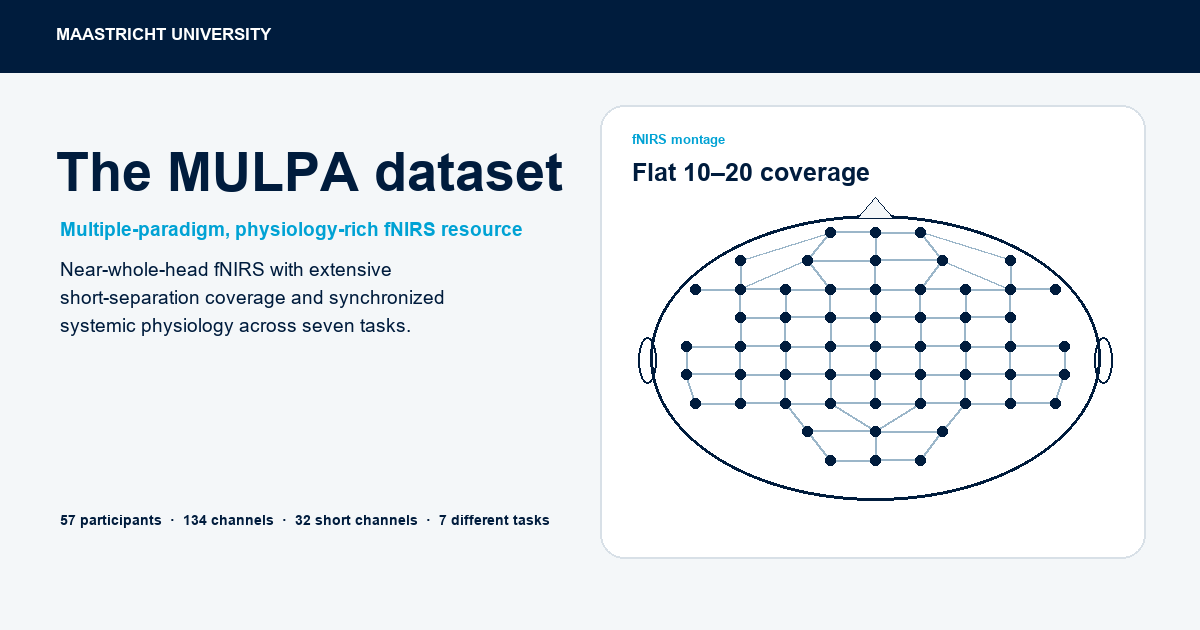
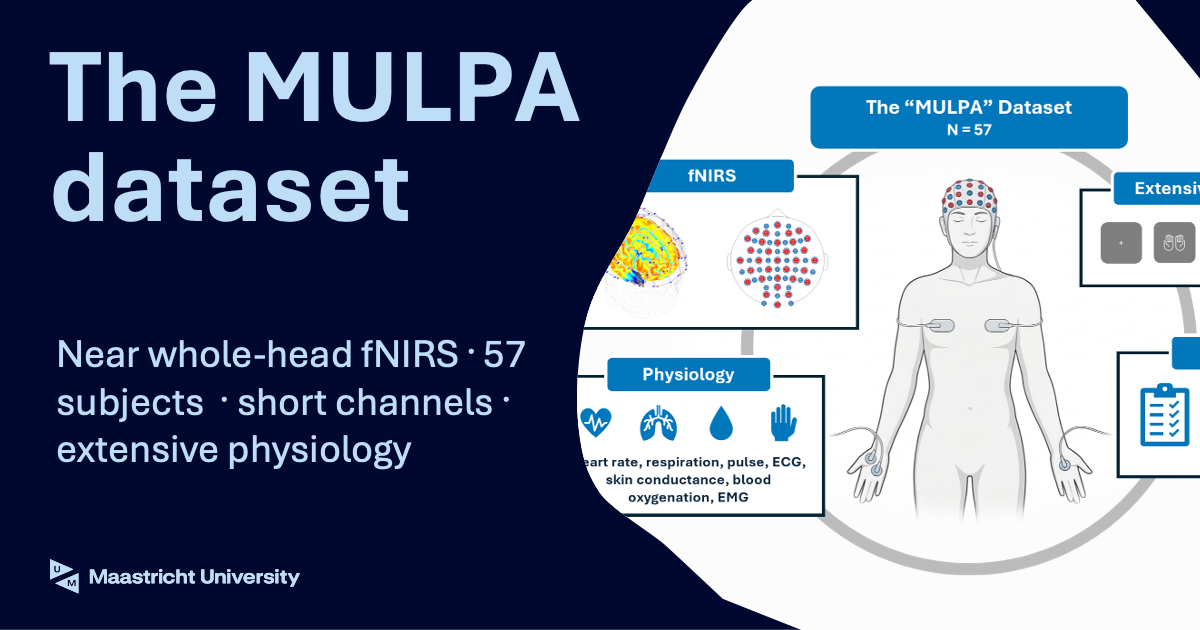
update social preview

diff --git a/app/page.tsx b/app/page.tsx
@@ -446,11 +446,12 @@ export default function Home() {
         <a className="button button-small" href="https://zenodo.org/records/21033499" target="_blank" rel="noreferrer">Open dataset</a>
       </header>
       <section className="hero" id="top">
-        <div><p className="eyebrow">A multiple-paradigm physiology-rich fNIRS resource</p><h1>The MULPA dataset</h1><p className="author-list">{authorNames.map((name, index) => <span key={name}>{name}{index < 2 && <sup>*</sup>}{index < authorNames.length - 2 ? ', ' : index === authorNames.length - 2 ? ', and ' : ''}</span>)}</p><div className="author-notes"><span><sup>*</sup> Shared first authors</span><a href="mailto:sp.raible@maastrichtuniversity.nl">Correspondence: sp.raible@maastrichtuniversity.nl</a></div><p className="hero-copy">MULPA is an open resource from 57 participants that combines near-whole-head fNIRS—134 measurement channels including 32 short-separation channels—with a broad, seven-task battery. The release brings cortical signals together with synchronized cardiovascular, respiratory, electrodermal, muscular, behavioural, and self-report measures on shared timelines: a rich foundation for studying brain responses, systemic physiology, signal quality, and their interactions.</p><div className="hero-actions"><a className="button" href="#montage">Explore the montage</a><a className="text-link" href="https://www.biorxiv.org/content/10.64898/2026.06.06.728412v1" target="_blank" rel="noreferrer">Read the preprint <span aria-hidden="true">↗</span></a></div></div>
+        <div><p className="eyebrow">A multiple-paradigm physiology-rich fNIRS resource</p><h1>The MULPA dataset</h1><p className="author-list">{authorNames.map((name, index) => <span key={name}>{name}{index < 2 && <sup>*</sup>}{index < authorNames.length - 2 ? ', ' : index === authorNames.length - 2 ? ', and ' : ''}</span>)}</p><div className="author-notes"><span><sup>*</sup> Shared first authors</span><a href="mailto:sp.raible@maastrichtuniversity.nl">Correspondence: sp.raible@maastrichtuniversity.nl</a></div><p className="hero-copy">MULPA is an open resource from 57 participants that combines near-whole-head fNIRS, 134 measurement channels including 32 short-separation channels, with a broad, seven-task battery. The release brings cortical signals together with synchronized cardiovascular, respiratory, electrodermal, muscular, behavioural, and self-report measures on shared timelines: a rich foundation for studying brain responses, systemic physiology, signal quality, and their interactions.</p><div className="hero-actions"><a className="button" href="#montage">Explore the montage</a><a className="text-link" href="https://www.biorxiv.org/content/10.64898/2026.06.06.728412v1" target="_blank" rel="noreferrer">Read the preprint <span aria-hidden="true">↗</span></a></div></div>
         <dl className="stat-grid"><div><dt>57</dt><dd>participants</dd></div><div><dt>134</dt><dd>fNIRS channels</dd></div><div><dt>32</dt><dd>short channels</dd></div><div><dt>7</dt><dd>different tasks</dd></div><div><dt>12.6 Hz</dt><dd>sampling rate</dd></div><div><dt>30+ h</dt><dd>recordings</dd></div></dl>
       </section>
       <section className="dataset-overview" aria-label="MULPA dataset overview">
         <img src={`${assetBasePath}/mulpa-dataset-overview.png`} alt="Overview of the MULPA dataset: fNIRS, synchronized physiology, a broad task battery, and behavioural measures in 57 participants." />
+        <p>Dataset overview adapted from <a href="https://www.biorxiv.org/content/10.64898/2026.06.06.728412v1" target="_blank" rel="noreferrer">Raible et al. (2026), bioRxiv <span aria-hidden="true">↗</span></a>.</p>
       </section>
       <MontageExplorer />
       <ParticipantExplorer />

diff --git a/app/globals.css b/app/globals.css
@@ -73,6 +73,8 @@ h1 { font-size: clamp(48px, 6.2vw, 88px); letter-spacing: -.065em; line-height: 
 
 .dataset-overview { margin: 0 auto; max-width: 1320px; padding: 0 5vw 92px; }
 .dataset-overview img { display: block; height: auto; margin: 0 auto; width: 80%; }
+.dataset-overview p { color: var(--muted); font-size: 12px; line-height: 1.5; margin: 14px auto 0; width: 80%; }
+.dataset-overview a { border-bottom: 1px solid currentColor; color: var(--teal-dark); }
 
 .section { margin: 0 auto; max-width: 1320px; padding: 105px 5vw; }
 .montage-section { max-width: none; background: var(--ink); color: white; }
